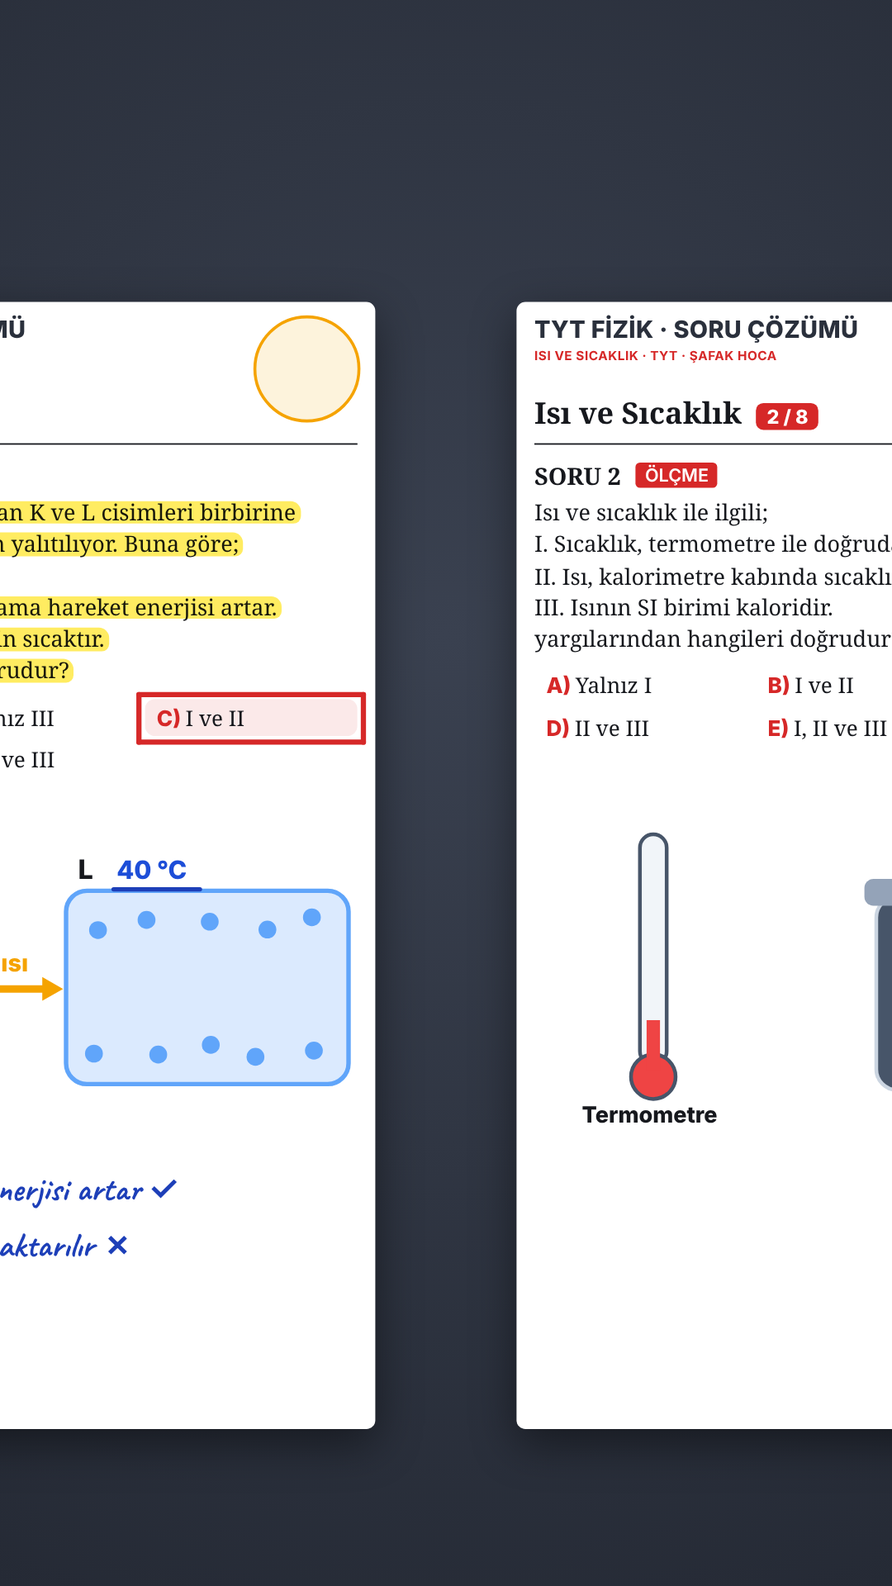
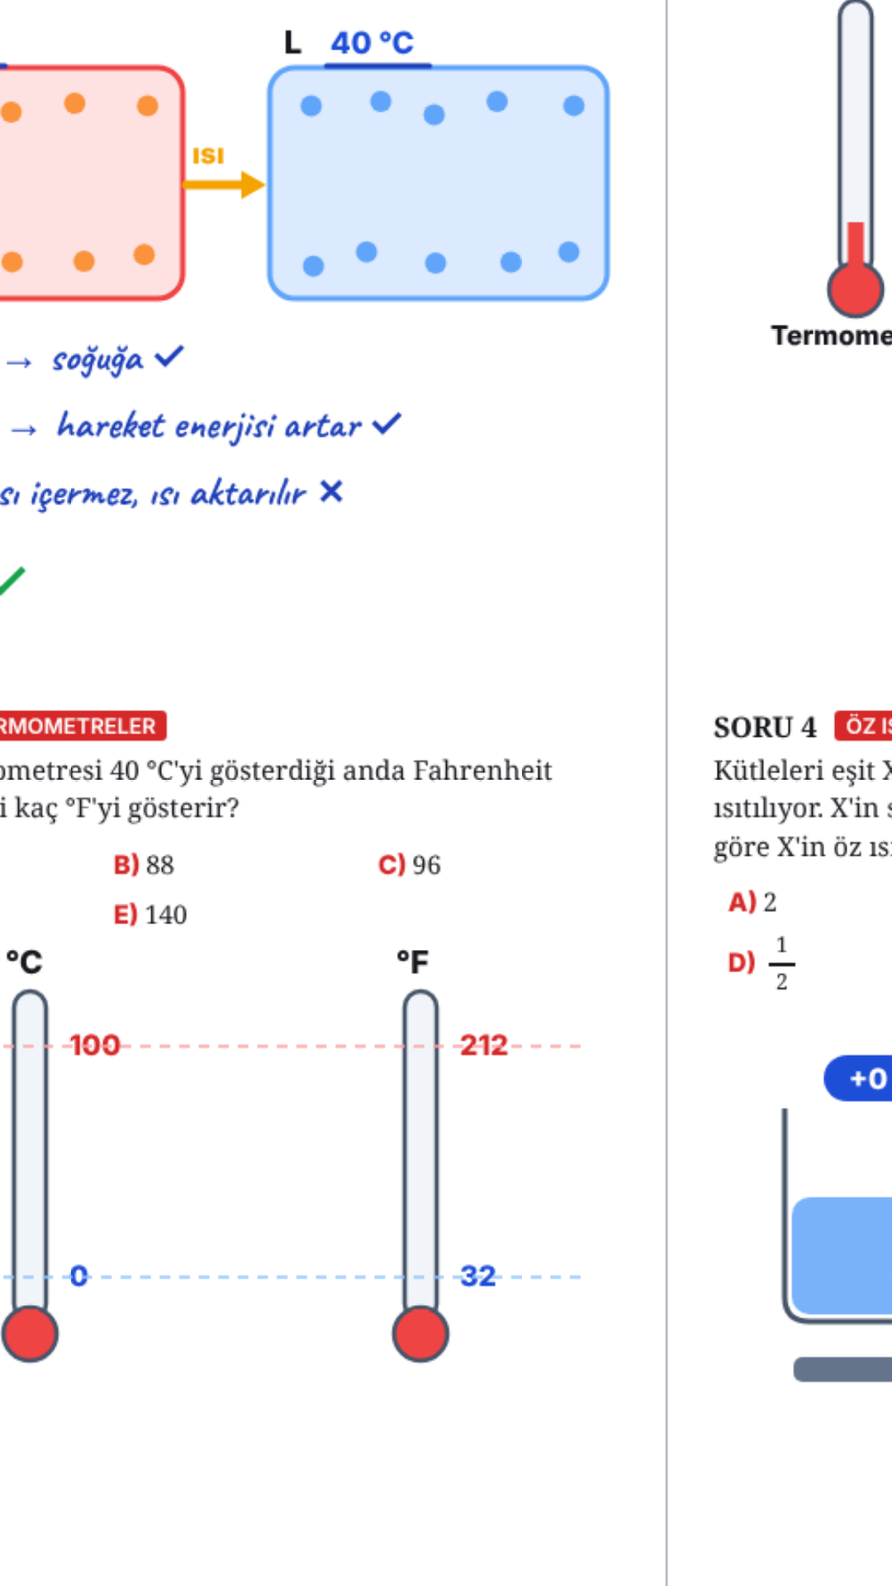
TYT soru çözümü: tek beyaz test kağıdı (Soru Videosu 1 düzeni), 8 soru iki sütunda
Kamera bütün kağıdı gösterir, soruya yakınlaşır, çözer, kağıda uzaklaşır; sonda
puan kutusuna 100 yazılır. Ayrı motor test_motor.js (konu_motor.js değişmedi),
konu.html'e ?m= motor seçimi eklendi, kareler güncellendi.

Claude-Session: https://claude.ai/code/session_01Xc7NeSWwtCAVd2cNHzP3jL

diff --git a/tyt/video/test_motor.js b/tyt/video/test_motor.js
@@ -1,0 +1,271 @@
+// TEST KAĞIDI motoru (Soru Videosu 1 düzeni + 5 Dakikada TYT motoru): tek beyaz sınav kağıdı, sorular iki sütunda.
+// Kamera bütün kağıdı gösterir → soruya yakınlaşır → çözer → kağıda uzaklaşır → sıradaki soruya yakınlaşır; sonda puan kutusu.
+// Kalem, fosfor, sahne animasyonları, Takip Et kartı ve ses senkronu konu motoruyla aynıdır. Kullanım: konu.html?m=test_motor&k=<içerik>&s=<sync>
+// her bölümün (giriş, okuma, adım, kapanış) süresi SYNC.segs'ten gelir; fosfor, animasyon ve kalem o bölümün içinde ilerler.
+(async () => {
+const {meta: M, P} = window.KONU;
+if (M.tema === 'koyu') document.body.classList.add('koyu');
+const SEG = (window.SYNC && window.SYNC.segs) || {};
+const segDur = (id, fb) => SEG[id] != null ? SEG[id] : fb;
+const WORDS = (window.SYNC && window.SYNC.words) || {};
+// bölüm içinde bir kelimenin söylendiği an (bölüm başına göre); bulunamazsa null
+const wordAt = (sid, key) => { const L = WORDS[sid]; if (!L || !key) return null; const k = normW(key);
+  const w = L.find(x => normW(x[0]).startsWith(k)); return w ? w[1] : null; };
+// okuma bölümünde metnin f kesri (0-1) söylenince geçen süre: kelimelerin harf sayısına göre
+function fracTime(sid, f, dur) { const L = WORDS[sid]; if (!L) return f * dur;
+  const c = L.map(x => normW(x[0]).length), C = c.reduce((a, b) => a + b, 0); let acc = 0;
+  for (let i = 0; i < L.length; i++) { const n = acc + c[i]; if (n / C >= f - 1e-9) { const k = c[i] ? (f * C - acc) / c[i] : 1; return lerp(L[i][1], L[i][2], cl(k)); } acc = n; }
+  return dur; }
+
+// ---------- kapak ----------
+const UST1 = M.ust1 || '1 DAKİKADA FİZİK', UST2 = M.ust2 || `${M.sinif}. SINIF FİZİK`;   // TYT: '5 DAKİKADA TYT', 'TYT FİZİK'
+$('cover').innerHTML = `<div class="cv-1dk"><span>⏱</span>${UST1}</div>
+  <div class="cv-top">${UST2}</div>
+  ${M.kanca ? `<div class="cv-hook">${M.kanca.replace(/([A-ZÇĞİÖŞÜ]{3,})/g, '<em>$1</em>')}</div>` : ''}
+  <div class="cv-logo${M.kanca ? ' sm' : ''}"><div class="cv-img"></div></div>
+  <div class="cv-k">${M.tur || 'KONU ANLATIMI'}</div>
+  <div class="cv-t">${M.baslik}</div>
+  <div class="cv-s">${M.kapakAlt}</div>
+  <div class="cv-code">${M.kazanim} · 2026-2027</div>
+  <div class="cv-bot">Şafak Hoca · Fizik</div>`;
+$('bend').innerHTML = `<b>${M.bitti || 'KONU BİTTİ'}</b><span>Sıradaki: ${M.sonraki}</span>`;
+
+// ---------- sayfalar ----------
+document.head.insertAdjacentHTML('beforeend', `<style>
+.kg .pg{background:transparent;box-shadow:none;border:0;border-radius:0;height:${M.satir || 650}px}
+.kg .pg .hd,.kg .pg .slot,.kg #flogo{display:none}.kg .pg .q{top:6px}
+.kagit{position:absolute;left:0;top:0;background:#fff;box-shadow:0 20px 60px rgba(0,0,0,.45);font-family:"Noto Serif",serif;color:#16181D}
+.kagit .vline{top:250px}
+.kagit .puan .s{opacity:0}
+</style>`);
+document.body.classList.add('kg');
+const KX = [20, 515], KTOP = 250, ROW = M.satir || 650, ROWS = Math.ceil(P.length / 2);
+const KW = 1000, KH = KTOP + ROWS * ROW + 190;
+const kg = document.createElement('div'); kg.className = 'kagit'; Object.assign(kg.style, {width: KW + 'px', height: KH + 'px'});
+kg.innerHTML = `<div class="ph"><div class="t1">${UST2} · ${M.baslik.toLocaleUpperCase('tr')}</div><div class="t2">${M.kagitAlt || 'KONU KONU TEST'} · ${P.length} SORU</div>
+  <div class="t3">ŞAFAK HOCA · ${M.kazanim} · 2026-2027</div>
+  <div class="flds"><span>Adı Soyadı:</span><span>Sınıfı:</span><span>No:</span><span class="p">Puan:</span></div>
+  <div class="plogo"><div class="img"></div></div></div><div class="vline"></div>
+  <div class="puan" id="puan">PUAN<div class="s" id="puanS">100</div></div>`;
+$('pages').appendChild(kg);
+const pagesEl = $('pages');
+const POS = P.map((_, i) => ({x: KX[i % 2], y: KTOP + Math.floor(i / 2) * ROW}));
+P.forEach((p, i) => {
+  const d = document.createElement('div'); d.className = 'pg'; d.style.left = POS[i].x + 'px'; d.style.top = POS[i].y + 'px';
+  d.innerHTML = `<div class="hd"><div class="t1">${UST2} · ${M.tur || 'KONU ANLATIMI'}</div><div class="t2">${M.baslik.toLocaleUpperCase('tr')} · ${M.kazanim} · ŞAFAK HOCA</div>
+    <div class="un"><span class="uname">${M.unite}</span><span class="ucnt">${i + 1} / ${P.length}</span></div></div><div class="slot"></div>
+    <div class="q"><b class="n">${p.soru ? p.soru : `${M.adim || 'ADIM'} ${i + 1} <i>${p.konu.toLocaleUpperCase('tr')}</i>`}</b>${p.html}</div>`;   // TYT: adım yerine bölümün sorusu
+  pagesEl.appendChild(d); p.el = d.querySelector('.q'); if (p.init) p.init();
+});
+$('bands').innerHTML = P.map((p, i) => p.soru ? `<div class="band soru" id="bq${i}"><b>${p.soru}</b><span>${M.baslik}</span></div>`
+  : `<div class="band" id="bq${i}"><b>${M.adim || 'ADIM'} ${i + 1} / ${P.length}</b><span>${p.konu}</span></div>`).join('');
+await document.fonts.ready;
+
+// ---------- ölçüm ----------
+$('cam').style.transform = 'none';
+const hls = P.map(p => {
+  const blk = p.el, qt = blk.querySelector('.qt'), B = blk.getBoundingClientRect(), words = [];
+  const walk = n => { for (const c of [...n.childNodes]) {
+    if (c.nodeType === 3) { const frag = document.createDocumentFragment();
+      for (const w of c.textContent.split(/(\s+)/)) { if (!w) continue; if (/^\s+$/.test(w)) frag.appendChild(document.createTextNode(w)); else { const sp = document.createElement('span'); sp.textContent = w; words.push(sp); frag.appendChild(sp); } }
+      c.replaceWith(frag); }
+    else if (c.nodeType === 1 && c.tagName !== 'BR') walk(c); } };
+  walk(qt);
+  const lines = [];
+  for (const sp of words) { const r = sp.getBoundingClientRect(); const L = lines.find(l => Math.abs(l.top - r.top) < 8);
+    if (L) { L.left = Math.min(L.left, r.left); L.right = Math.max(L.right, r.right); L.height = Math.max(L.height, r.height); }
+    else lines.push({top: r.top, left: r.left, right: r.right, height: r.height}); }
+  return lines.map(l => { const d = document.createElement('div'); d.className = 'hl';
+    Object.assign(d.style, {left: (l.left - B.left - 3) + 'px', top: (l.top - B.top + l.height * 0.14) + 'px', width: (l.right - l.left + 6) + 'px', height: (l.height * 0.78) + 'px'});
+    blk.insertBefore(d, blk.firstChild); return {el: d, w: l.right - l.left}; });
+});
+
+// ---------- zaman çizelgesi (sese göre) ----------
+const ZS = 2.15, TOPY = 236;
+const CAMS = P.map((_, i) => ({s: ZS, x: 40 - POS[i].x * ZS, y: TOPY - (POS[i].y + 6) * ZS}));
+const SF = Math.min(1000 / KW, 1640 / KH);                                   // bütün kağıt
+const FULL = {s: SF, x: 540 - KW / 2 * SF, y: 250 + (1640 - KH * SF) / 2};
+const PS = 2.0, PUAN = {s: PS, x: 540 - (KW - 260) * PS, y: 960 - (KH - 110) * PS};   // puan kutusu
+const moves = [], fades = [], items = [], fpulses = [], follows = [], HL = [], ANIMS = [], SEGT = {};
+let t = 0;
+const move = (A, B, d, dip = 0) => { moves.push([t, t + d, A, B, dip]); t += d; };
+const fadeEl = (el, a, b, c = 1e9, d = 1e9) => { const f = [el, a, b, c, d]; fades.push(f); return f; };
+
+// giriş: kapak + selamlama
+SEGT.intro = 0.6; const introEnd = 0.6 + segDur('intro', M.introSure || 4.5);
+const HK = window.KONU.hook;
+// giriş animasyonu: soru + hikâye animasyonu; "Ben Şafak Hoca" denince kısa kapak + Takip Et
+const wIntro = key => { const v = wordAt('intro', key); return v == null ? null : SEGT.intro + v; };
+const benT = HK ? (wIntro('Ben') ?? introEnd - 2.5) : null;
+let HKW = [];
+if (HK) {
+  const words = HK.soru.split(/\s+/), spoken = WORDS.intro || []; let j = 0;
+  $('hook').innerHTML = (M.hookBaslik ? `<div class="hk-top tyt"><span class="hk-pill">${UST2}</span></div><div class="hk-baslik">${M.hookBaslik}</div>`
+    : `<div class="hk-top"><span>⏱</span>${UST1} · ${UST2}</div>`) + `<div class="hk-q">${words.map((w, i) =>
+    `<span class="hkw${/[A-ZÇĞİÖŞÜ]{3,}/.test(w) ? ' vrg' : ''}" id="hkw${i}">${w}</span>`).join(' ')}</div><div class="hk-sc">${HK.html}</div>`;
+  if (M.hookBaslik) $('hook').classList.add('tyt-hook');
+  words.forEach((w, i) => { const k = normW(w); while (j < spoken.length && !normW(spoken[j][0]).startsWith(k.slice(0, 3))) j++;
+    HKW.push(j < spoken.length ? SEGT.intro + spoken[j][1] : 0.6 + i * 0.3); if (j < spoken.length) j++; });
+  fadeEl($('hook'), -1, 0, benT - 0.05, benT + 0.3);
+  fadeEl($('cover'), benT - 0.15, benT + 0.2, introEnd + 0.2, introEnd + 0.8);
+  follows.push(benT + 0.35);                                      // takip kartı: kapakla birlikte, gelip gider
+} else {
+  fadeEl($('cover'), -1, 0, introEnd + 0.2, introEnd + 0.8);
+}
+t = introEnd + 0.5;
+t += 1.6;                                                          // bütün test kağıdı görünür
+move(FULL, CAMS[0], 1.4);
+fadeEl($('flogo'), t, t + 0.5);
+let band = fadeEl($('bq0'), t - 0.5, t);
+const SORU_T = [];
+t += 0.3;
+if (!HK) follows.push(t);                                         // takip kartı: başta (okuma sırasında, notlar boşken)
+const MID = Math.floor(P.length / 2) - 1;
+P.forEach((p, i) => {
+  // tanımı oku: fosfor, konuşmayla aynı hızda satır satır
+  const rid = `p${i}r`, rd = segDur(rid, 6);
+  SEGT[rid] = t; const tw = hls[i].reduce((a, h) => a + h.w, 0); let acc = 0, prev = t + fracTime(rid, 0, rd);
+  for (const h of hls[i]) { acc += h.w; const e = t + fracTime(rid, acc / tw, rd); HL.push({el: h.el, a: prev, b: e}); prev = e; }
+  t += rd + 0.35;
+  const els = [...p.el.querySelectorAll('[data-o]')];
+  p.steps.forEach((sp, k) => {
+    const sid = `p${i}s${k}`, sd = segDur(sid, 3); SEGT[sid] = t;
+    const aw = wordAt(sid, sp.aw) || 0;                              // animasyon belirli bir kelimeyle başlayabilir
+    const ad = Math.min(sp.d, Math.max(0.6, sd - aw));               // animasyon konuşmanın içine sığar
+    ANIMS.push({a: t + aw, d: ad, f: sp.f, sc: sp.d / ad});
+    const its = els.filter(e => sp.o.includes(+e.dataset.o)).sort((a, b) => a.dataset.o - b.dataset.o).map(el => {
+      if (el.tagName === 'line') return {el, kind: 'line', nat: Math.max(0.45, Math.hypot(el.x2.baseVal.value - el.x1.baseVal.value, el.y2.baseVal.value - el.y1.baseVal.value) / 150)};
+      return {el, kind: 'h', nat: Math.max(0.5, el.textContent.trim().length * 0.045)};
+    });
+    const nat = its.reduce((a, it) => a + it.nat + 0.18, 0);
+    const ws = t + (sp.wAt != null ? sp.wAt : Math.min(ad * 0.7, sd * 0.35));
+    const sc = its.length ? Math.max(0.85, Math.min(1.6, (t + sd + 0.2 - ws) / nat)) : 1;  // kalem konuşmayla birlikte biter
+    let w = ws;
+    for (const it of its) {
+      const kw = wordAt(sid, it.el.dataset && it.el.dataset.w);       // kalem, o kelime söylenince başlar
+      let d = it.nat * sc; if (kw != null) { w = Math.max(w, t + kw); d = it.nat; }
+      items.push({el: it.el, kind: it.kind, a: w, b: w + d}); w += d + 0.18 * sc;
+      const ck = it.el.querySelector && it.el.querySelector('.ck'); if (ck) items.push({el: ck, kind: 'ck', a: w - 0.25, b: w + 0.1});
+    }
+    t = Math.max(t + sd, w, t + aw + ad) + 0.3;
+  });
+  t += 0.4;
+  if (i === MID && P.length > 1) { follows.push(t); t += 3.0; }    // takip kartı: ortada
+  band[3] = t; band[4] = t + 0.4; SORU_T.push(t - 0.05);
+  if (i < P.length - 1) {
+    move(CAMS[i], FULL, 1.3);                                        // kağıda uzaklaş
+    t += 0.9;                                                         // bütün kağıt: çözülen sorular görünür
+    fpulses.push([t + 0.2, t + 1.4]);
+    move(FULL, CAMS[i + 1], 1.4);                                     // sıradaki soruya yakınlaş
+    band = fadeEl($('bq' + (i + 1)), t - 0.5, t);
+    t += 0.3;
+  }
+});
+// puan kutusu: kırmızı kalemle 100, sonra bütün kağıt
+move(CAMS[P.length - 1], PUAN, 1.3);
+const puanT = t; t += 1.6;
+move(PUAN, FULL, 1.3);
+// kapanış
+fadeEl($('bend'), t, t + 0.5);
+fpulses.push([t + 0.2, t + 1.4]);
+SEGT.outro = t + 0.4;
+follows.push(t + 0.6);                                            // takip kartı: sonda
+t = Math.max(t + 0.4 + segDur('outro', 6), t + 3.8);
+const DUR = t + 0.9;
+
+// ---------- kalem ----------
+for (const it of items) {
+  if (it.kind === 'line') { const S = it.el.ownerSVGElement.getBoundingClientRect(), b = v => v.baseVal.value;
+    it.p0 = {x: S.left + b(it.el.x1), y: S.top + b(it.el.y1)}; it.p1 = {x: S.left + b(it.el.x2), y: S.top + b(it.el.y2)}; }
+  else { const r = it.el.getBoundingClientRect(); it.r = {x: r.left, y: r.top, w: r.width, h: r.height}; it.chars = it.kind === 'h' ? it.el.textContent.trim().length : 4; }
+}
+function penPoint(it, k) {
+  if (it.kind === 'line') return {x: lerp(it.p0.x, it.p1.x, k), y: lerp(it.p0.y, it.p1.y, k)};
+  const r = it.r;
+  if (it.kind === 'h') return {x: r.x + Math.max(0, r.w - 14) * k, y: r.y + r.h * 0.72 + 2.2 * Math.sin(k * it.chars * Math.PI * 1.3)};
+  const cx = r.x + r.w / 2, cy = r.y + r.h / 2;
+  return k < .35 ? {x: cx - 9 + 8 * k / .35, y: cy - 2 + 8 * k / .35} : {x: cx - 1 + 16 * (k - .35) / .65, y: cy + 6 - 22 * (k - .35) / .65};
+}
+const groups = [];
+for (const it of items) { const g = groups[groups.length - 1]; if (g && it.a - g[g.length - 1].b < 0.8) g.push(it); else groups.push([it]); }
+function penAt(time) {
+  for (const g of groups) {
+    const a = g[0].a, b = g[g.length - 1].b;
+    if (time < a - 0.4 || time > b + 0.45) continue;
+    if (time < a) { const k = prog(time, a - 0.4, a); return {...penPoint(g[0], 0), o: k, lift: (1 - k) * 40}; }
+    if (time > b) { const k = prog(time, b, b + 0.45); return {...penPoint(g[g.length - 1], 1), o: 1 - k, lift: k * 40}; }
+    for (let j = 0; j < g.length; j++) {
+      const it = g[j]; if (time >= it.a && time <= it.b) return {...penPoint(it, prog(time, it.a, it.b)), o: 1, lift: 0};
+      const nx = g[j + 1];
+      if (nx && time > it.b && time < nx.a) { const k = ease(prog(time, it.b, nx.a)), p0 = penPoint(it, 1), p1 = penPoint(nx, 0);
+        return {x: lerp(p0.x, p1.x, k), y: lerp(p0.y, p1.y, k), o: 1, lift: Math.sin(Math.PI * k) * 14}; }
+    }
+  }
+  return null;
+}
+
+// ---------- çizim ----------
+function camAt(time) {
+  let c = FULL;
+  for (const [a, b, A, B, dip] of moves) {
+    if (time < a) break;
+    if (time >= b) { c = B; continue; }
+    const k = ease(prog(time, a, b)), s = A.s - dip * Math.sin(Math.PI * k);
+    const cx = lerp((540 - A.x) / A.s, (540 - B.x) / B.s, k), cy = lerp((960 - A.y) / A.s, (960 - B.y) / B.s, k);
+    c = {s, x: 540 - cx * s, y: 960 - cy * s};
+  }
+  return c;
+}
+const beat = k => Math.sin(Math.PI * cl(k));
+const pulseAt = (L, time) => { let p = 0; for (const [a, b] of L) if (time >= a && time <= b) p = prog(time, a, b); return p; };
+function applyPulse(img, rings, p) {
+  img.style.transform = `scale(${1 + 0.22 * beat(p / 0.5) + 0.12 * beat((p - 0.5) / 0.5)})`;
+  img.style.boxShadow = p > 0 && p < 1 ? `0 0 ${30 * beat(p)}px ${10 * beat(p)}px rgba(245,163,0,.75)` : '0 8px 24px rgba(0,0,0,.4)';
+  rings.forEach(([id, d]) => { const k = cl((p - d) / 0.65); $(id).style.opacity = k > 0 && k < 1 ? (1 - k) * 0.8 : 0; $(id).style.transform = `scale(${1 + 1.4 * k})`; });
+}
+function render(time) {
+  const c = camAt(time), moving = moves.some(([a, b]) => time > a && time < b);
+  $('cam').style.transform = `translate(${c.x}px,${c.y}px) scale(${c.s})`;
+  $('fade').style.opacity = (window.NOFADE ? 0 : 1 - prog(time, 0, 0.5)) + prog(time, DUR - 0.8, DUR);
+  const seen = new Map();
+  for (const [el, a, b, cc, d] of fades) seen.set(el, Math.max(seen.get(el) || 0, prog(time, a, b) * (1 - prog(time, cc, d))));
+  for (const [el, v] of seen) { el.style.opacity = v;
+    el.style.transform = el.id === 'flogo' ? `scale(${0.6 + 0.4 * ease(v)})` : el.id === 'cover' ? `scale(${1 + 0.04 * (1 - v)})` : `translateY(${(1 - ease(v)) * -30}px)`; }
+  if (moving) $('flogo').style.opacity = 0;
+  if (HK && time < benT + 0.4) { HKW.forEach((a, i) => { const k = prog(time, a - 0.05, a + 0.2); const e = $('hkw' + i);
+      e.style.opacity = k; e.style.transform = `translateY(${(1 - ease(k)) * 24}px) scale(${0.9 + 0.1 * ease(k)})`; });
+    HK.f(time, wIntro); }
+  for (const h of HL) h.el.style.transform = `scaleX(${prog(time, h.a, h.b)})`;
+  for (const an of ANIMS) an.f(Math.max(0, Math.min(an.d, time - an.a)) * an.sc);
+  for (const it of items) {
+    const k = prog(time, it.a, it.b);
+    if (it.kind === 'h') it.el.style.clipPath = `inset(-12px ${100 - 100 * k}% -12px -6px)`;
+    else if (it.kind === 'line') it.el.setAttribute('stroke-dashoffset', 100 * (1 - k));
+    else { const sc = k < .6 ? k / .6 * 1.4 : 1.4 - (k - .6) / .4 * .4; it.el.style.transform = `scale(${k ? sc : 0}) rotate(${(1 - k) * -20}deg)`; }
+  }
+  for (const p of P) if (p.late) p.late(time);
+  { const k = prog(time, puanT + 0.1, puanT + 0.7); const e = $('puanS'); e.style.opacity = k; e.style.transform = `rotate(-8deg) scale(${1 + 0.6 * (1 - ease(k))})`; }
+  const pp = penAt(time), pen = $('pen');
+  if (pp) { const sx = c.x + pp.x * c.s, sy = c.y + (pp.y - pp.lift * 0.4) * c.s; pen.style.opacity = pp.o; pen.style.left = (sx - 61) + 'px'; pen.style.top = (sy - 54) + 'px'; pen.style.transform = 'rotate(165deg)'; }
+  else pen.style.opacity = 0;
+  applyPulse($('fimg'), [['fr1', 0], ['fr2', 0.35]], pulseAt(fpulses, time));
+  let ft = -1; for (const a of follows) if (time >= a && time <= a + 3.0) ft = time - a;
+  const fo = ft >= 0 ? prog(ft, 0, 0.45) * (1 - prog(ft, 2.6, 3.0)) : 0, card = $('follow');
+  card.style.opacity = fo; card.style.transform = `translateY(${(1 - ease(fo)) * 120}px) scale(${0.92 + 0.08 * ease(fo)})`;
+  const tap = prog(ft, 1.0, 1.5);
+  $('tap').style.opacity = ft >= 0 && tap > 0 && tap < 1 ? 1 - tap : 0; $('tap').style.transform = `scale(${0.4 + 0.9 * tap})`;
+  const done = ft >= 1.25, btn = $('flbtn');
+  btn.classList.toggle('done', done); btn.textContent = done ? 'Takip ediliyor ✓' : 'Takip Et';
+  btn.style.transform = `scale(${ft >= 1.0 && ft < 1.25 ? 0.9 : 1})`;
+}
+function charMap(el) {
+  $('cam').style.transform = 'none';
+  const R = el.getBoundingClientRect(), out = [], tw = document.createTreeWalker(el, NodeFilter.SHOW_TEXT); let n;
+  while ((n = tw.nextNode())) for (let i = 0; i < n.length; i++) { const rg = document.createRange(); rg.setStart(n, i); rg.setEnd(n, i + 1); const r = rg.getBoundingClientRect(); out.push([n.data[i], (r.left - R.left) / R.width, (r.right - R.left) / R.width]); }
+  return out;
+}
+window.EVENTS = {dur: DUR, segs: SEGT, writes: items.filter(it => it.kind !== 'ck').map(it => [it.a, it.b, it.kind, it.kind === 'h' ? charMap(it.el) : null]),
+  checks: items.filter(it => it.kind === 'ck').map(it => it.a).concat([puanT + 0.4]), sorular: SORU_T, kagit: [FULL, PUAN], highlights: HL.map(h => [h.a, h.b]), moves: moves.map(m => [m[0], m[1]]), follows};
+window.render = render; window.DUR = DUR;
+render(0);
+})();

diff --git a/tyt/video/kareler.js b/tyt/video/kareler.js
@@ -5,11 +5,19 @@ const out = process.argv[2]; fs.mkdirSync(out, {recursive: true});
 (async () => {
   const b = await chromium.launch(); const p = await b.newPage({viewport: {width: 1080, height: 1920}});
   await p.goto('file://' + process.env.PAGE); await p.waitForFunction(() => window.DUR);
-  const E = await p.evaluate(() => ({dur: DUR, moves: EVENTS.moves, segs: EVENTS.segs}));
+  const E = await p.evaluate(() => ({dur: DUR, moves: EVENTS.moves, segs: EVENTS.segs, sorular: EVENTS.sorular}));
   const shots = [['01_giris', 5.9], ['02_kapak', 7.6]];
-  E.moves.forEach(([a, b2], i) => shots.push([`${String(i + 3).padStart(2, '0')}_soru${i + 1}`, a - 0.05]));
-  shots.push([`${String(E.moves.length + 3).padStart(2, '0')}_soru${E.moves.length + 1}`, E.segs.outro - 0.5]);
-  if (E.moves[0]) shots.push(['gecis_ortasi', (E.moves[0][0] + E.moves[0][1]) / 2]);
+  const nn = i => String(i).padStart(2, '0');
+  if (E.sorular) {   // test kağıdı: bütün kağıt → her soru → uzak çekim → puan
+    shots.push(['03_kagit', E.moves[0][0] - 0.1]);
+    E.sorular.forEach((t, i) => shots.push([`${nn(i + 4)}_soru${i + 1}`, t]));
+    shots.push(['uzak_kagit', E.moves[7][1] + 0.3], ['gecis_ortasi', (E.moves[1][0] + E.moves[1][1]) / 2]);
+    const m = E.moves[E.moves.length - 2]; shots.push(['zy_puan', m[1] + 1.2]);
+  } else {
+    E.moves.forEach(([a, b2], i) => shots.push([`${nn(i + 3)}_soru${i + 1}`, a - 0.05]));
+    shots.push([`${nn(E.moves.length + 3)}_soru${E.moves.length + 1}`, E.segs.outro - 0.5]);
+    if (E.moves[0]) shots.push(['gecis_ortasi', (E.moves[0][0] + E.moves[0][1]) / 2]);
+  }
   shots.push(['zz_kapanis', E.dur - 1.5]);
   for (const [ad, t] of shots) { await p.evaluate(t => render(t), t); await p.screenshot({path: path.join(out, ad + '.png')}); }
   console.log('süre', E.dur.toFixed(1), 'sn ·', shots.length, 'kare'); await b.close();

diff --git a/tyt/video/konu.html b/tyt/video/konu.html
@@ -168,6 +168,6 @@ html,body{width:1080px;height:1920px;overflow:hidden;font-family:Inter,sans-seri
 const Q=new URLSearchParams(location.search), K=Q.get('k')||'isi_sicaklik', SY=Q.get('s');
 const load=src=>new Promise(r=>{const e=document.createElement('script');e.src=src;e.onload=r;e.onerror=r;document.body.appendChild(e);});
 Promise.all(['700 23px Caveat','400 15px "Noto Serif"','700 17px "Noto Serif"','800 52px Inter','600 34px Inter','40px "Noto Color Emoji"'].map(f=>document.fonts.load(f,'ğşıİçö₁²√🧭'))).then(async()=>{
-  await load('konu_yardim.js'); await load(K+'.js'); if(SY) await load(SY+'.js'); await load('konu_motor.js');});
+  await load('konu_yardim.js'); await load(K+'.js'); if(SY) await load(SY+'.js'); await load((Q.get('m')||'konu_motor')+'.js');});
 </script>
 </body></html>

diff --git a/tyt/FORMAT_SORU.md b/tyt/FORMAT_SORU.md
@@ -5,7 +5,11 @@
 - **Konu videosu** (`FORMAT.md`, "5 Dakikada TYT" motoru, `video/`): koyu masa, sayfalar yan yana, kamera sayfadan sayfaya **uzaklaşıp yakınlaşarak** kayar; fosfor, kalem notları, Takip Et kartı, kapak.
 - **Soru Videosu 2. Format** (`format-soru2/FORMAT_2.md`): her soru tek sayfa, "SORU n / N", olay animasyonu, kalemle çözüm, sonuç kutusu ve ✓.
 
-**Görünüm: BEYAZ TEST KAĞIDI.** Koyu masa üzerinde beyaz kağıt sayfalar (içerikte `tema: 'koyu'` YOK); basılı soru siyah serif, şık harfleri kırmızı, kalem mavi, cevap kutusu kırmızı. Kamera sayfadan sayfaya uzaklaşıp yakınlaşır. Giriş ve kapak koyu kalır (konu videosundaki gibi).
+**Görünüm: BEYAZ TEST KAĞIDI (Soru Videosu 1 düzeni).** Koyu masa üzerinde **tek bir beyaz sınav kağıdı**: başlıkta "TYT FİZİK · KONU", "KONU KONU TEST · 8 SORU", Şafak Hoca, Adı Soyadı / Sınıfı / No / Puan alanları ve logo; sorular **iki sütunda dörder** (Soru Videosu 1'deki 10 soruluk yazılı kağıdının 8 soruluk TYT testi hâli).
+- Kamera **bütün kağıdı** gösterir → **soruya yakınlaşır** → soru çözülür → **kağıda uzaklaşır** (çözülen sorular kağıtta görünür) → sıradaki soruya yakınlaşır.
+- Sonda kamera **puan kutusuna** gider, kırmızı "100" yazılır, sonra bütün kağıt + "8 SORU TAMAM".
+- Basılı soru siyah serif, şık harfleri kırmızı, kalem mavi, cevap kutusu kırmızı. Giriş ve kapak koyu kalır.
+- Motor: `video/test_motor.js` (konu motorunun kopyası; konu videosu `konu_motor.js` ile aynen kalır). Sayfa: `konu.html?m=test_motor&k=<içerik>&s=<sync>`.
 
 Örnek: **Isı ve Sıcaklık** → içerik `video/isi_sicaklik_soru.js`, kareler `kareler/isi_sicaklik_soru/`.
 
@@ -60,11 +64,11 @@ Süre: ~5–6 dakika (ses gelince sese göre).
 ```bash
 cd tyt/video
 # Kareler (onay için)
-PAGE="$PWD/konu.html?k=isi_sicaklik_soru&s=tahmini_sure_soru" node kareler.js ../kareler/isi_sicaklik_soru
+PAGE="$PWD/konu.html?m=test_motor&k=isi_sicaklik_soru&s=tahmini_sure_soru" node kareler.js ../kareler/isi_sicaklik_soru
 # Ses gelince (paragraf kimlikleri):
 IDS=intro,p0r,p0s0,p0s1,p0s2,p0s3,p1r,p1s0,p1s1,p1s2,p1s3,p2r,p2s0,p2s1,p2s2,p2s3,p3r,p3s0,p3s1,p3s2,p3s3,p4r,p4s0,p4s1,p4s2,p4s3,p5r,p5s0,p5s1,p5s2,p5s3,p6r,p6s0,p6s1,p6s2,p6s3,p6s4,p7r,p7s0,p7s1,p7s2,p7s3,outro
 python3 -I seslendirme/senk.py seslendirme/isi_soru_metin.txt words.json $IDS sync_isi_soru ses_isi_soru.wav
-PAGE="$PWD/konu.html?k=isi_sicaklik_soru&s=sync_isi_soru" node rec.js 30 sessiz.mp4
+PAGE="$PWD/konu.html?m=test_motor&k=isi_sicaklik_soru&s=sync_isi_soru" node rec.js 30 sessiz.mp4
 ```
 
 Yeni konu için: konu videosunun içerik dosyasındaki sayfa sırasını al, her sayfa için bir test sorusu yaz, `isi_sicaklik_soru.js`'yi örnek al.
